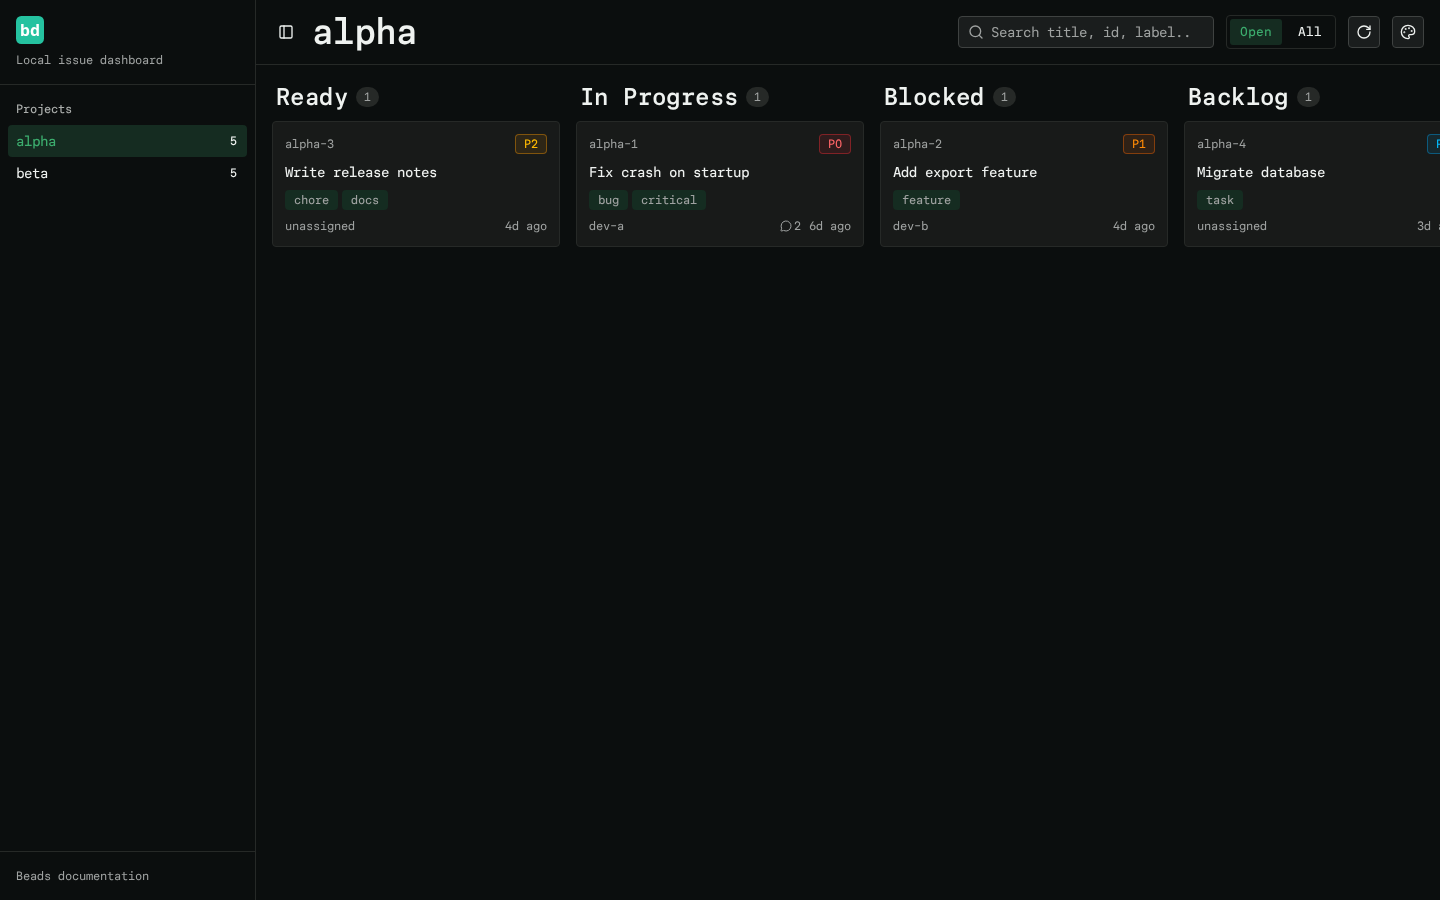
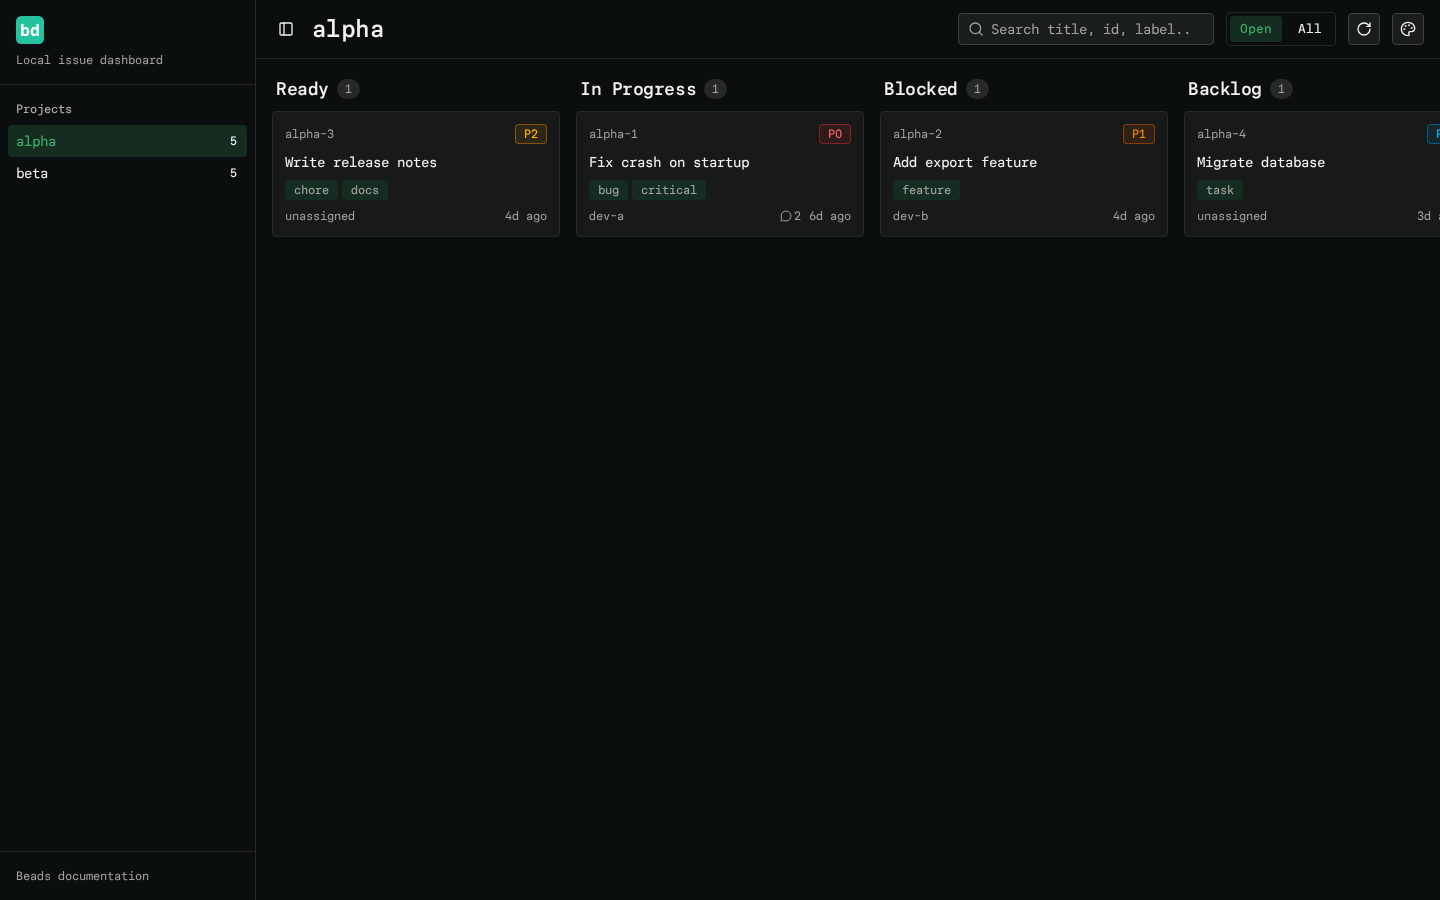
fix: reduce dashboard heading sizes

diff --git a/tests/e2e/branding.spec.ts b/tests/e2e/branding.spec.ts
@@ -32,15 +32,15 @@ for (const mode of ["light", "dark"] as const) {
     expect(await page.evaluate(() => [...document.fonts].some((font) => font.family.includes("paperMono") && font.status === "loaded"))).toBe(true);
     await expect(page.locator("body")).toHaveCSS("font-feature-settings", '"cv02", "cv03", "cv04", "cv11"');
     const title = page.getByRole("heading", { name: "alpha", exact: true });
-    await expect(title).toHaveCSS("font-size", "36px");
-    await expect(title).toHaveCSS("line-height", "40px");
+    await expect(title).toHaveCSS("font-size", "24px");
+    await expect(title).toHaveCSS("line-height", "32px");
     await expect(title).toHaveCSS("font-weight", "600");
-    await expect(title).toHaveCSS("letter-spacing", "-0.9px");
+    await expect(title).toHaveCSS("letter-spacing", "-0.6px");
     const columnTitle = page.getByRole("heading", { name: "Ready", exact: true });
-    await expect(columnTitle).toHaveCSS("font-size", "24px");
-    await expect(columnTitle).toHaveCSS("line-height", "32px");
+    await expect(columnTitle).toHaveCSS("font-size", "18px");
+    await expect(columnTitle).toHaveCSS("line-height", "28px");
     await expect(columnTitle).toHaveCSS("font-weight", "600");
-    await expect(columnTitle).toHaveCSS("letter-spacing", "-0.6px");
+    await expect(columnTitle).toHaveCSS("letter-spacing", "-0.45px");
     const logo = page.getByRole("img", { name: "Beads", exact: true }).filter({ visible: true });
     await expect(logo).toHaveCount(1);
     expect(await logo.evaluate((image) => (image as HTMLImageElement).naturalWidth)).toBe(32);
@@ -54,6 +54,7 @@ for (const mode of ["light", "dark"] as const) {
     await card.focus();
     await card.press("Enter");
     await expect(page.getByRole("dialog")).toBeVisible();
+    await expect(page.getByRole("dialog").getByRole("heading", { name: "Fix crash on startup", exact: true })).toHaveCSS("font-size", "20px");
     if (process.env.UPDATE_SCREENSHOTS && mode === "dark") {
       await page.screenshot({ path: "docs/screenshots/beads-issue-drawer.png", animations: "disabled" });
     }

diff --git a/src/components/dashboard.tsx b/src/components/dashboard.tsx
@@ -176,7 +176,7 @@ export function Dashboard() {
         <header className="flex shrink-0 flex-wrap items-center gap-2 border-b px-4 py-3 lg:gap-3">
           <SidebarTrigger />
           <Image src="/brand/beads.svg" alt="Beads" width={24} height={24} unoptimized className="md:hidden" />
-          <h1 className="min-w-0 flex-1 basis-[calc(100%-5rem)] truncate text-4xl font-semibold tracking-tight lg:basis-0">
+          <h1 className="min-w-0 flex-1 basis-[calc(100%-5rem)] truncate text-2xl font-semibold tracking-tight lg:basis-0">
             {selectedProject?.name ?? "View Beads"}
           </h1>
           <div className="relative order-last w-full lg:order-none lg:ml-auto lg:w-64">

diff --git a/src/components/board.tsx b/src/components/board.tsx
@@ -27,7 +27,7 @@ export function Board({ issues, readyIds, includeClosed, onSelect }: BoardProps)
         {visible.map(({ key, label }) => (
           <section key={key} className="flex w-72 flex-col gap-2">
             <header className="flex items-center gap-2 px-1">
-              <h2 className="text-2xl font-semibold tracking-tight">{label}</h2>
+              <h2 className="text-lg font-semibold tracking-tight">{label}</h2>
               <span className="rounded-full bg-muted px-2 py-0.5 text-xs text-muted-foreground">
                 {columns[key].length}
               </span>

diff --git a/src/components/ui/sheet.tsx b/src/components/ui/sheet.tsx
@@ -105,7 +105,7 @@ function SheetTitle({ className, ...props }: SheetPrimitive.Title.Props) {
     <SheetPrimitive.Title
       data-slot="sheet-title"
       className={cn(
-        "font-heading text-2xl font-semibold tracking-tight text-foreground",
+        "font-heading text-xl font-semibold tracking-tight text-foreground",
         className
       )}
       {...props}

diff --git a/public/brand/README.md b/public/brand/README.md
@@ -18,9 +18,10 @@ The live site's CSS explicitly selects Paper Mono for both body and headings
 (`--font-family-body-custom` and `--font-family-headings-custom`). Inter is
 also preloaded by Mintlify but is not the configured body/heading font.
 
-Typography follows the site's 16px/24px body baseline, 36px/40px main headings,
-and 24px/32px section headings. Headings use weight 600 and -0.025em letter
-spacing; compact dashboard controls and issue metadata retain their smaller sizes.
+Typography keeps the site's 16px body baseline with a smaller dashboard heading
+scale: 24px project titles, 18px column headings, and 20px drawer titles.
+Headings use weight 600 and -0.025em letter spacing; compact dashboard controls
+and issue metadata retain their smaller sizes.
 The site's `cv02`, `cv03`, `cv04`, and `cv11` font-feature settings are enabled
 for UI text, with default features for code.
 
